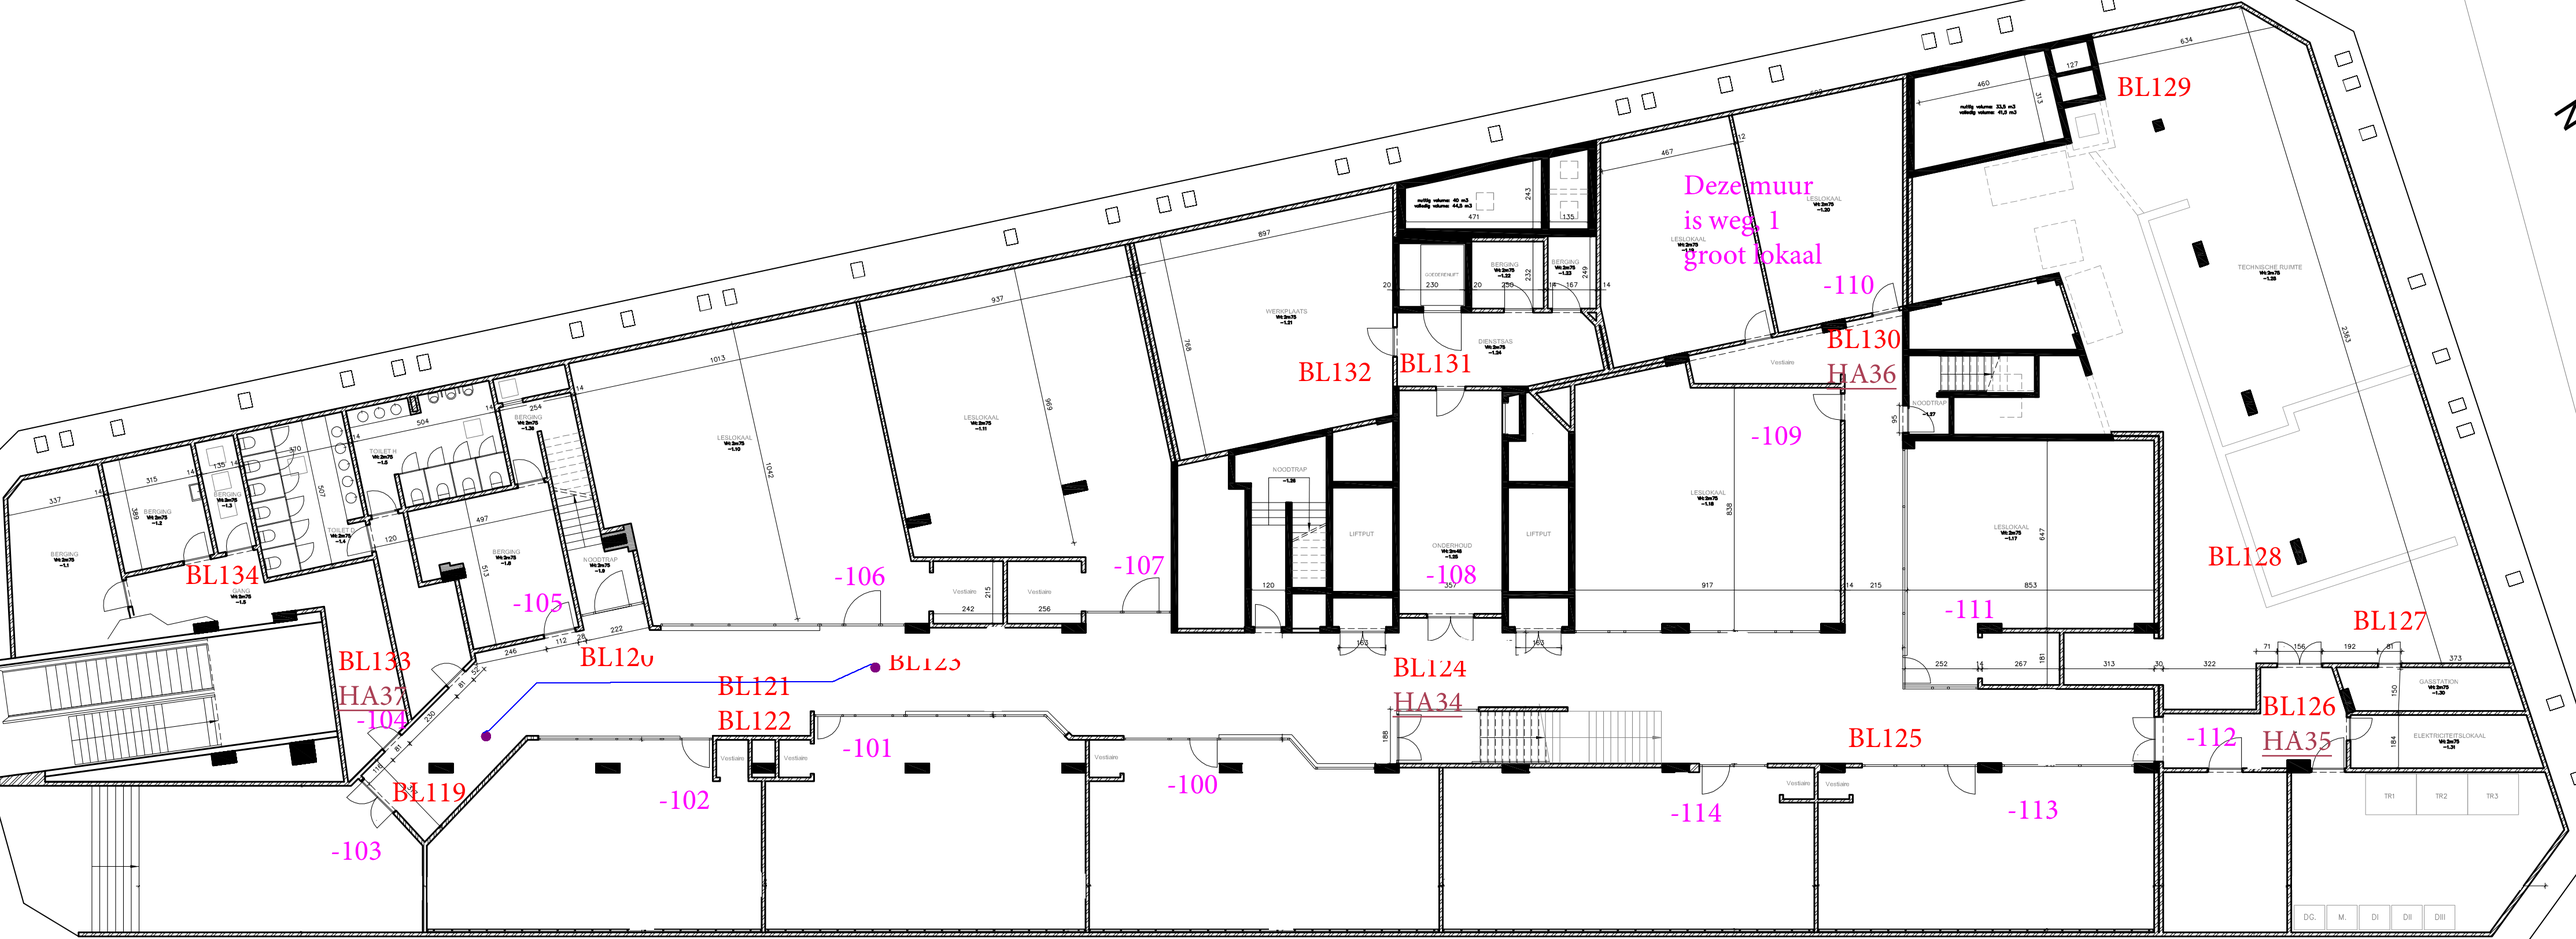
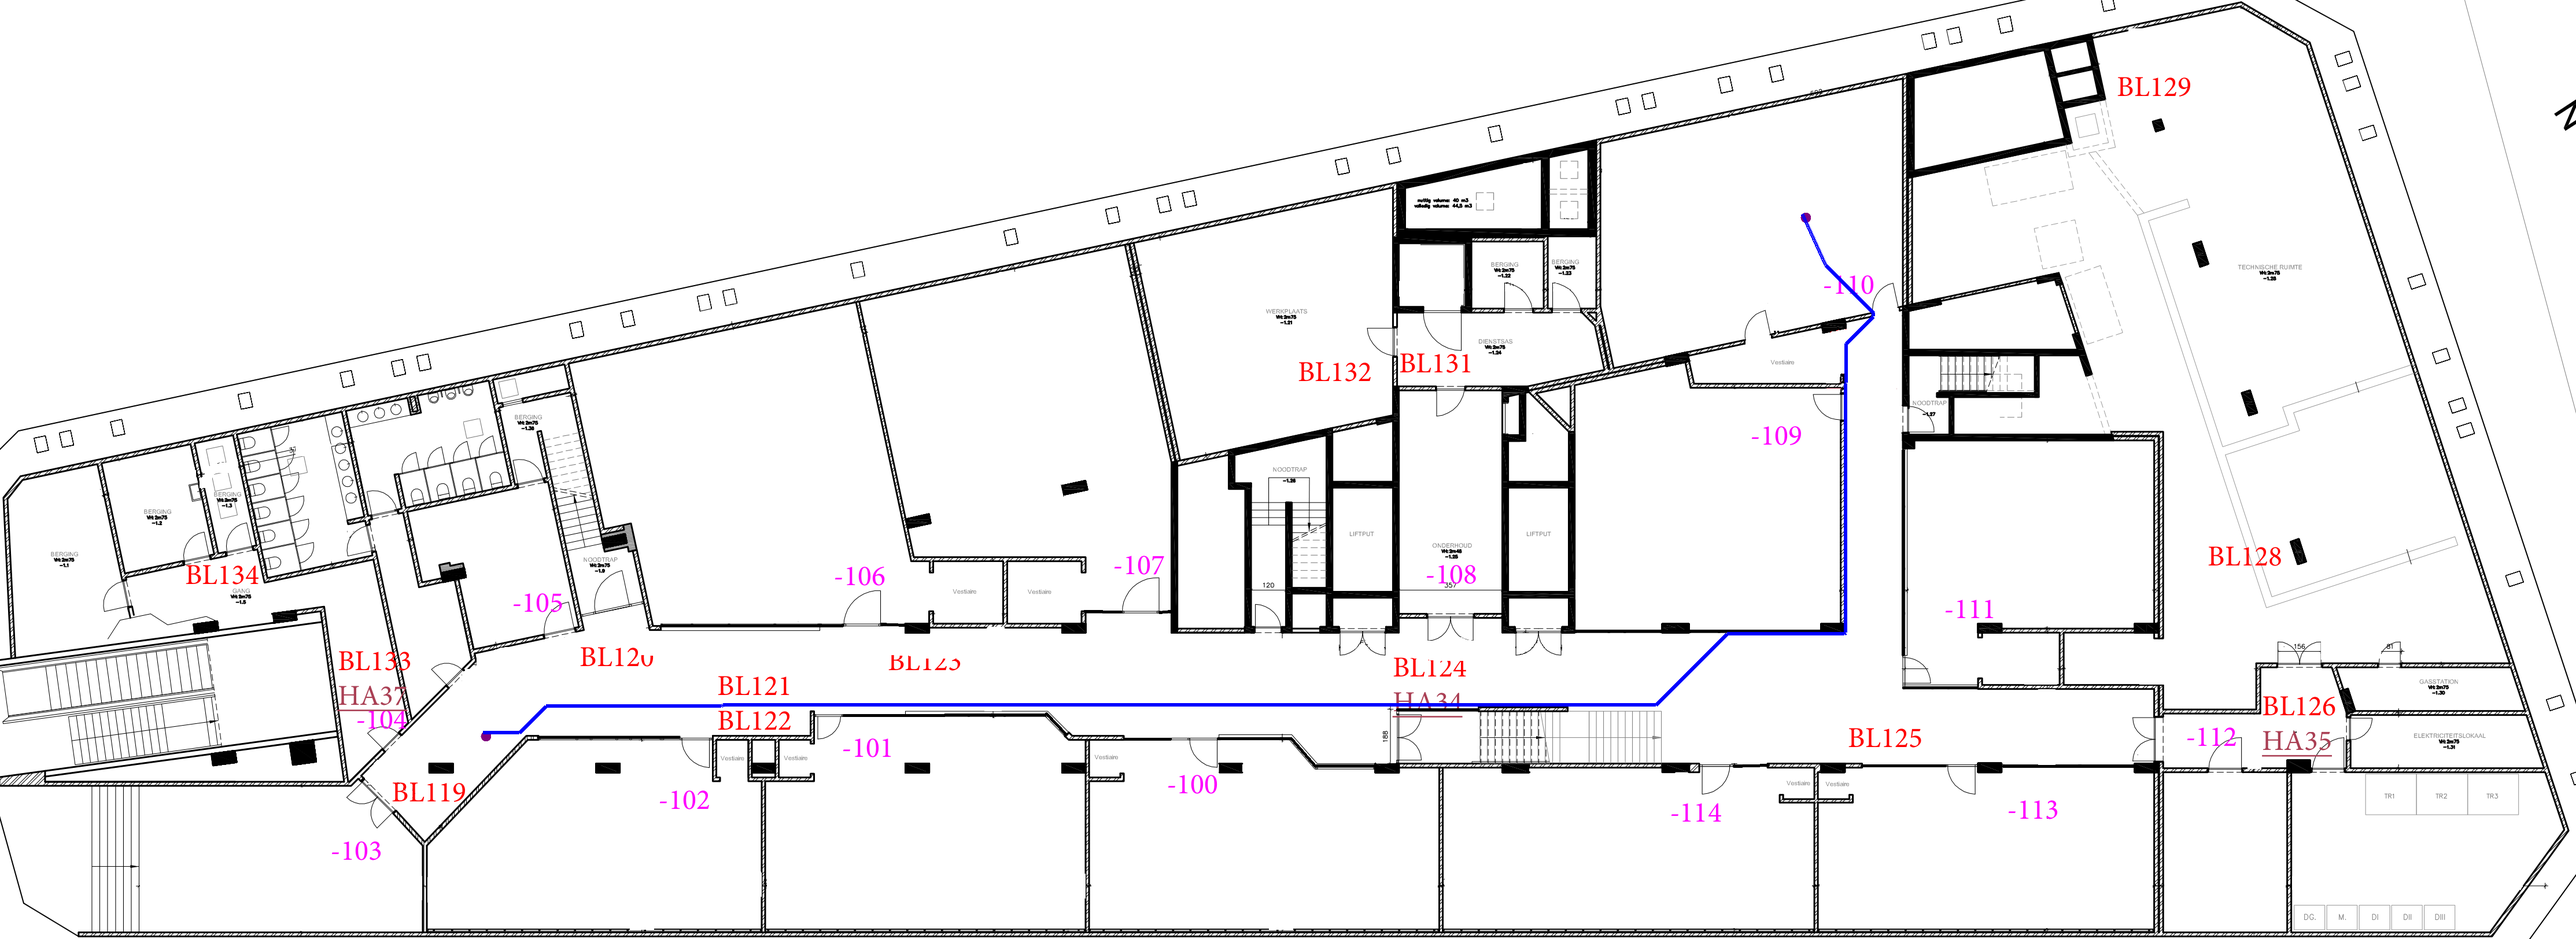
new plan

diff --git a/PathfindingConsole/AStarPathFinding.cs b/PathfindingConsole/AStarPathFinding.cs
@@ -25,7 +25,7 @@ public class AStarPathfinding
         openSet.Enqueue(startNode, startNode.FCost);
         
         int iterationCount = 0;
-        const int maxIterations = 200000;
+        const int maxIterations = 7000000;//1 mil maar kan tot 6.988.086 gaan omdat da allemaal walkable points zijn
 
         Console.WriteLine("Start pathfinding...");
         while (openSet.Count > 0)
@@ -61,11 +61,11 @@ public class AStarPathfinding
                     openSet.Enqueue(neighbor, neighbor.FCost);
                 }
             }
-
-            if (closedSet.Count % 500 == 0)
+            //TODO depending on the amount of nodes, it slows the program from the begin ahllway to room -111, a save of a 1 second
+            /*if (closedSet.Count % 500 == 0)
             {
                 Console.WriteLine($"Processed {closedSet.Count} nodes. open list size: {openSet.Count}");
-            }
+            }*/
         }
 
         Console.WriteLine("No path found.");

diff --git a/PathfindingConsole/FloorplanVisualizer.cs b/PathfindingConsole/FloorplanVisualizer.cs
@@ -19,11 +19,11 @@ public class FloorplanVisualizer
         {
             using (Graphics g = Graphics.FromImage(bitmap))
             {
-                Pen pathPen = new Pen(Color.Blue, 2);
+                Pen pathPen = new Pen(Color.Blue, 6); //2 width
                 Brush pointBrush = new SolidBrush(Color.Purple);
-                // Brush walkableBrush = new SolidBrush(Color.Green);
+                 /*Brush walkableBrush = new SolidBrush(Color.Green);
 
-                /*// 1. Draw the walkable points
+                // 1. Draw the walkable points
                 foreach (var point in floorplan.Points)
                 {
                     g.FillRectangle(walkableBrush, (float)point.XWidth, (float)point.YHeight, 1, 1);

diff --git a/PathfindingConsole/Program.cs b/PathfindingConsole/Program.cs
@@ -8,7 +8,9 @@ using PathfindingConsole;
 
 
 string imagePath = @"C:\Users\peril\Documents\KDG4\TheLab\Project\VitalRoutes\BackendApi\Floorplans\UZ_Groenplaats\floor_minusEDITED.png";
-var (start, end, walkablePoints) = FloorplanAnalyzer.GetWalkablePoints(imagePath, (834.0,1267.0),(1507.0,1148.0));
+//(1507.0,1148.0),room -100 (2096.0,1466.0), room -111 (3427.0,1031.0), room -110 (3116.0,370.0), room -109 (2978.0,840.0)
+// BL128: 3983.0 1058.0
+var (start, end, walkablePoints) = FloorplanAnalyzer.GetWalkablePoints(imagePath, (834.0,1267.0),(3116.0,370.0));
 if (walkablePoints == null || walkablePoints.Count == 0)
 {
     Console.WriteLine("No walkable points found.");
